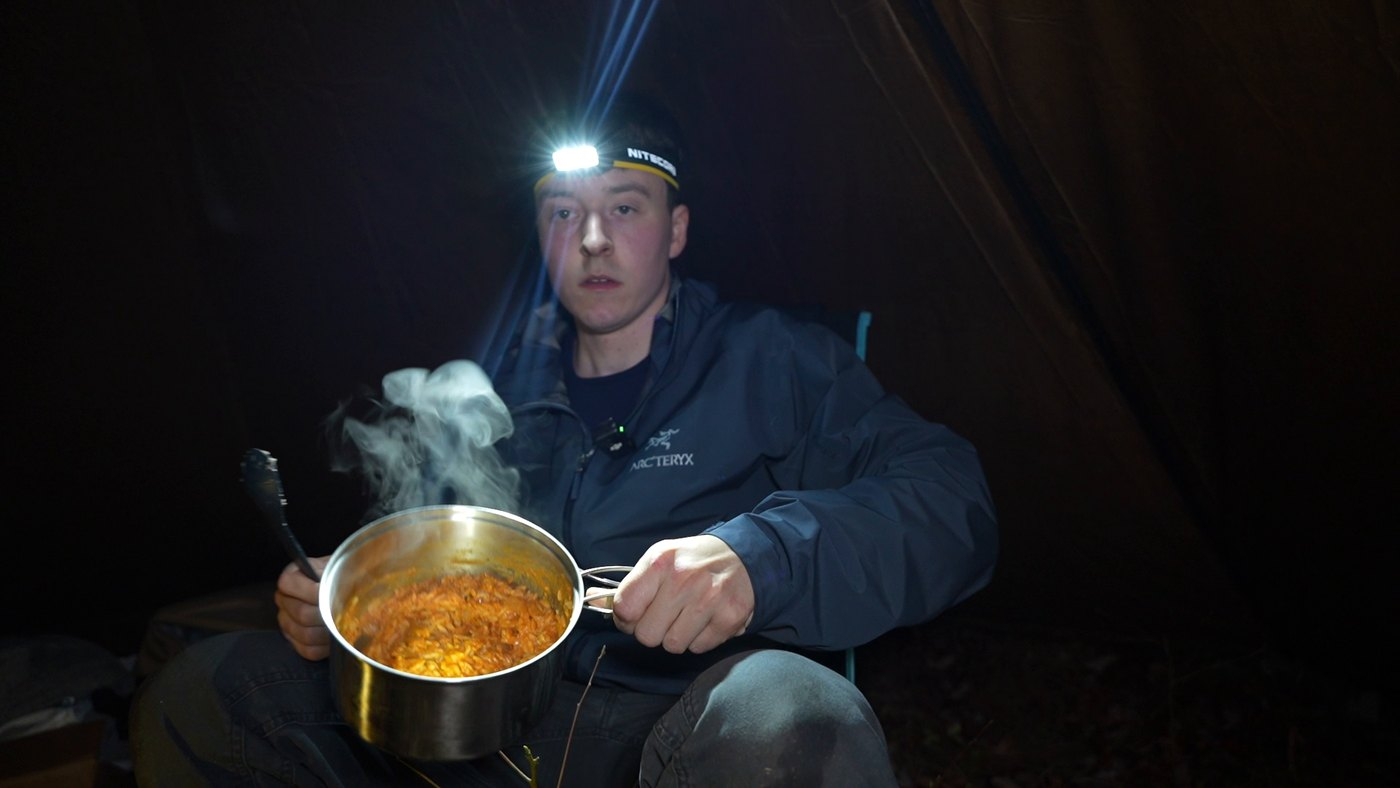
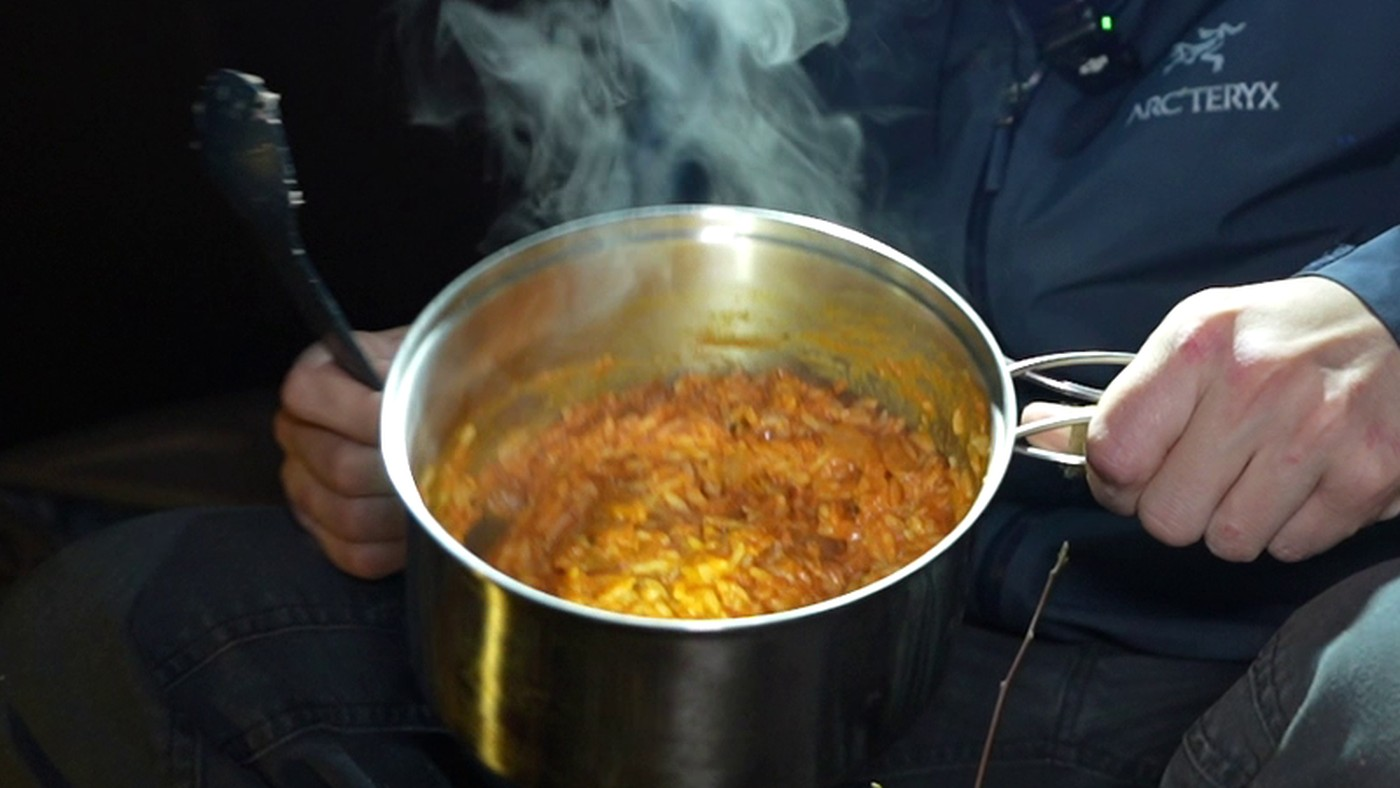
Camp food: close-up pot photo for the tuna tikka masala, fix the rice

diff --git a/food/tuna-tikka-masala-rice/index.html b/food/tuna-tikka-masala-rice/index.html
@@ -23,7 +23,7 @@
 <link href="https://fonts.googleapis.com/css2?family=Geist:wght@400..800&display=swap" rel="stylesheet" />
 <link rel="stylesheet" href="https://unpkg.com/@phosphor-icons/web@2.1.1/src/regular/style.css" />
 <link rel="stylesheet" href="/food/food.css" />
-<script type="application/ld+json">{"@context":"https://schema.org","@type":"Recipe","name":"Tuna Tikka Masala Rice","image":["https://barelycamping.com/food/img/meals/tuna-tikka-masala-rice.jpg"],"description":"This was an Outdoor Boys meal gone wrong. One of his dinners is chicken fried up with rice and a curry sauce, so I tried to recreate it on the wood stove in my hot tent. My fridge went out and the chicken had been sitting too long, so I swapped it for a tuna packet. I cut way too much onion and forgot to put oil in, so it stuck. It doesn't taste bad, it's just really mid, and nothing I threw on it saved it. I ate it because it was warm food. If you're going camping, don't make this.","author":{"@type":"Person","name":"Luke","url":"https://www.youtube.com/@barelycamping"},"recipeCategory":"Dinner","keywords":"camping meal, campfire recipe, camping food, pot","recipeIngredient":["A pouch of 60 second rice","A tuna packet","Tikka masala sauce","An onion","Water"],"tool":[{"@type":"HowToTool","name":"Pot"},{"@type":"HowToTool","name":"Wood stove"},{"@type":"HowToTool","name":"Pocket knife"},{"@type":"HowToTool","name":"Spoon"}],"recipeInstructions":[{"@type":"HowToStep","text":"Cut the onion and brown it in the pot on top of the stove. Put some oil in first, mine stuck."},{"@type":"HowToStep","text":"Add the rice with a little water."},{"@type":"HowToStep","text":"Pour in the tikka masala sauce and cook the rice in it."},{"@type":"HowToStep","text":"Squeeze in the tuna, add a bit more water and let it sit until the rice soaks it all up."}],"review":{"@type":"Review","author":{"@type":"Person","name":"Luke","url":"https://www.youtube.com/@barelycamping"},"reviewRating":{"@type":"Rating","ratingValue":5.1,"bestRating":10,"worstRating":0}},"mainEntityOfPage":"https://barelycamping.com/food/tuna-tikka-masala-rice/"}</script>
+<script type="application/ld+json">{"@context":"https://schema.org","@type":"Recipe","name":"Tuna Tikka Masala Rice","image":["https://barelycamping.com/food/img/meals/tuna-tikka-masala-rice.jpg"],"description":"This was an Outdoor Boys meal gone wrong. One of his dinners is chicken fried up with rice and a curry sauce, so I tried to recreate it on the wood stove in my hot tent. My fridge went out and the chicken had been sitting too long, so I swapped it for a tuna packet. I cut way too much onion and forgot to put oil in, so it stuck. It doesn't taste bad, it's just really mid, and nothing I threw on it saved it. I ate it because it was warm food. If you're going camping, don't make this.","author":{"@type":"Person","name":"Luke","url":"https://www.youtube.com/@barelycamping"},"recipeCategory":"Dinner","keywords":"camping meal, campfire recipe, camping food, pot","recipeIngredient":["A pouch of 90 second jasmine rice","A tuna packet","Patak's tikka masala sauce","An onion","Water"],"tool":[{"@type":"HowToTool","name":"Pot"},{"@type":"HowToTool","name":"Wood stove"},{"@type":"HowToTool","name":"Pocket knife"},{"@type":"HowToTool","name":"Spoon"}],"recipeInstructions":[{"@type":"HowToStep","text":"Cut the onion and brown it in the pot on top of the stove. Put some oil in first, mine stuck."},{"@type":"HowToStep","text":"Add the rice with a little water."},{"@type":"HowToStep","text":"Pour in the tikka masala sauce and cook the rice in it."},{"@type":"HowToStep","text":"Squeeze in the tuna, add a bit more water and let it sit until the rice soaks it all up."}],"review":{"@type":"Review","author":{"@type":"Person","name":"Luke","url":"https://www.youtube.com/@barelycamping"},"reviewRating":{"@type":"Rating","ratingValue":5.1,"bestRating":10,"worstRating":0}},"mainEntityOfPage":"https://barelycamping.com/food/tuna-tikka-masala-rice/"}</script>
 <script type="application/ld+json">{"@context":"https://schema.org","@type":"BreadcrumbList","itemListElement":[{"@type":"ListItem","position":1,"name":"Home","item":"https://barelycamping.com/"},{"@type":"ListItem","position":2,"name":"Camp food","item":"https://barelycamping.com/food/"},{"@type":"ListItem","position":3,"name":"Tuna Tikka Masala Rice","item":"https://barelycamping.com/food/tuna-tikka-masala-rice/"}]}</script>
 <script src="/consent.js"></script>
 </head>
@@ -52,7 +52,7 @@
         <button type="button" data-act="list"><i class="ph ph-list-checks" aria-hidden="true"></i><span>Copy list</span></button>
         <button type="button" data-act="print"><i class="ph ph-printer" aria-hidden="true"></i><span>Print</span></button>
       </div>
-      <h2 class="sub">What you need</h2><ul class="check"><li><label><input type="checkbox">A pouch of 60 second rice</label></li><li><label><input type="checkbox">A tuna packet</label></li><li><label><input type="checkbox">Tikka masala sauce</label></li><li><label><input type="checkbox">An onion</label></li><li><label><input type="checkbox">Water</label></li></ul>
+      <h2 class="sub">What you need</h2><ul class="check"><li><label><input type="checkbox">A pouch of 90 second jasmine rice</label></li><li><label><input type="checkbox">A tuna packet</label></li><li><label><input type="checkbox">Patak's tikka masala sauce</label></li><li><label><input type="checkbox">An onion</label></li><li><label><input type="checkbox">Water</label></li></ul>
       <h2 class="sub">Gear</h2><ul class="check"><li><label><input type="checkbox">Pot</label></li><li><label><input type="checkbox">Wood stove</label></li><li><label><input type="checkbox">Pocket knife</label></li><li><label><input type="checkbox">Spoon</label></li></ul>
       <h2 class="sub">How to make it</h2><ol><li>Cut the onion and brown it in the pot on top of the stove. Put some oil in first, mine stuck.</li><li>Add the rice with a little water.</li><li>Pour in the tikka masala sauce and cook the rice in it.</li><li>Squeeze in the tuna, add a bit more water and let it sit until the rice soaks it all up.</li></ol>
       <p class="soon">Video coming soon</p>

diff --git a/food/meals.js b/food/meals.js
@@ -37,7 +37,7 @@ window.MEALS = [
     steps: ["Warm the empty pie maker over the fire for a minute so the butter melts onto it.", "Butter the inside, lay in a slice of bread, add a spoonful of pie filling, and put the second slice on top.", "Close it, hold it over the coals and rotate it every few minutes until the bread is golden. It leaks hot filling out the ends, so watch your fingers."] },
   { id: "tuna-tikka-masala-rice", yt: "", t: 0, take: "This was an Outdoor Boys meal gone wrong. One of his dinners is chicken fried up with rice and a curry sauce, so I tried to recreate it on the wood stove in my hot tent. My fridge went out and the chicken had been sitting too long, so I swapped it for a tuna packet. I cut way too much onion and forgot to put oil in, so it stuck. It doesn't taste bad, it's just really mid, and nothing I threw on it saved it. I ate it because it was warm food. If you're going camping, don't make this.", name: "Tuna Tikka Masala Rice", score: 5.1, real: true, type: "Dinner", method: "Pot", img: "/food/img/meals/tuna-tikka-masala-rice.jpg", video: "TikTok Shop hot tent", at: "",
     quote: "It doesn't taste bad, it's just like really mid.",
-    ingredients: ["A pouch of 60 second rice", "A tuna packet", "Tikka masala sauce", "An onion", "Water"],
+    ingredients: ["A pouch of 90 second jasmine rice", "A tuna packet", "Patak's tikka masala sauce", "An onion", "Water"],
     gear: ["Pot", "Wood stove", "Pocket knife", "Spoon"],
     steps: ["Cut the onion and brown it in the pot on top of the stove. Put some oil in first, mine stuck.", "Add the rice with a little water.", "Pour in the tikka masala sauce and cook the rice in it.", "Squeeze in the tuna, add a bit more water and let it sit until the rice soaks it all up."] },
   { id: "hot-dog-tacos", yt: "HEQKvuhwthc", t: 1269, take: "This was my buddy Tyler's idea. Taco Bell taco shells, hot dogs and whatever condiments you have. You cook the dogs over the fire and throw them in a shell. We might have joked about it in the video, but it was terrible. I would not recommend this. It's a rent is due tomorrow and you have no money for groceries kind of meal.", name: "Hot Dog Tacos", score: 1.2, real: true, type: "Dinner", method: "Over the fire", img: "/food/img/meals/hot-dog-tacos.jpg", video: "Target vs Walmart", at: "18:17",
